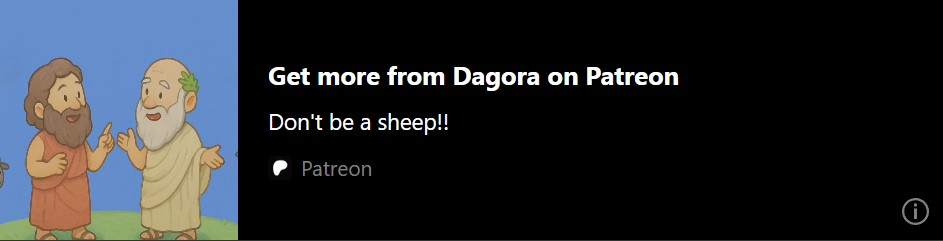
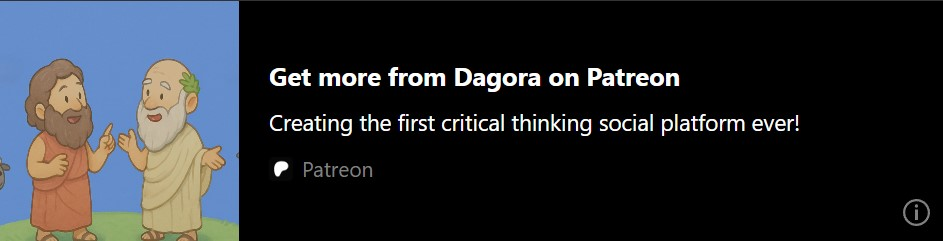
Add Patreon sponsorship section and update newsletter layout

diff --git a/index.html b/index.html
@@ -979,7 +979,7 @@
 
 			<section class="newsletter section" id="join">
 				<div class="container-sm">
-					<div class="newsletter-inner section-inner">
+					<div class="newsletter-inner section-inner has-bottom-divider">
 						<div class="newsletter-header text-center" id="email-signup">
 							<h2 class="section-title mt-0">
 								<span class="material-symbols-outlined" style="font-size: 35px;">
@@ -998,7 +998,7 @@
 								This approach helps keep bots, AI, and bad-faith users out while fostering meaningful
 								engagement among <span style="font-weight: 800;">trusted
 									members</span>.<br>
-								See details <a href=""><span style="font-weight: 800;">here</span></a>
+								See details <a href=""><span style="font-weight: 800;">here</span></a>.
 							</p>
 						</div>
 						<div class="footer-form newsletter-form field field-grouped">
@@ -1020,6 +1020,29 @@
 					</div>
 				</div>
 			</section>
+
+			<section class="newsletter section" id="join">
+				<div class="container-sm">
+					<div class="newsletter-inner section-inner">
+						<div class="newsletter-header text-center" id="email-signup">
+							<h2 class="section-title mt-0">
+								Sponsor Us on Patreon
+							</h2>
+
+						</div>
+
+						<div class="media-inner section-inner" style="padding-top: 12px;">
+							<div class="media-canvas">
+								<a href="https://patreon.com/Dagora">
+									<img src="./assets/patreon.jpg"
+										style="border-radius: 10px;z-index: 9;position: relative">
+								</a>
+							</div>
+						</div>
+					</div>
+				</div>
+			</section>
+
 		</main>
 
 		<footer class="site-footer">
